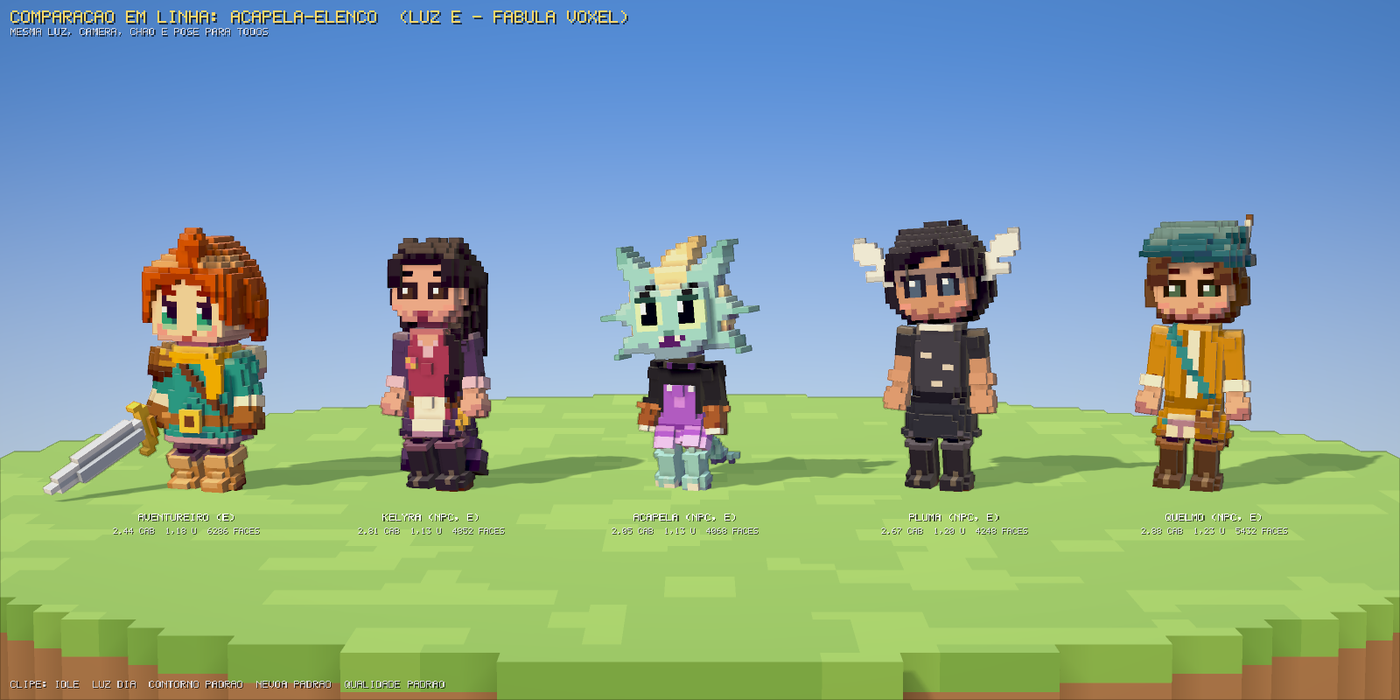
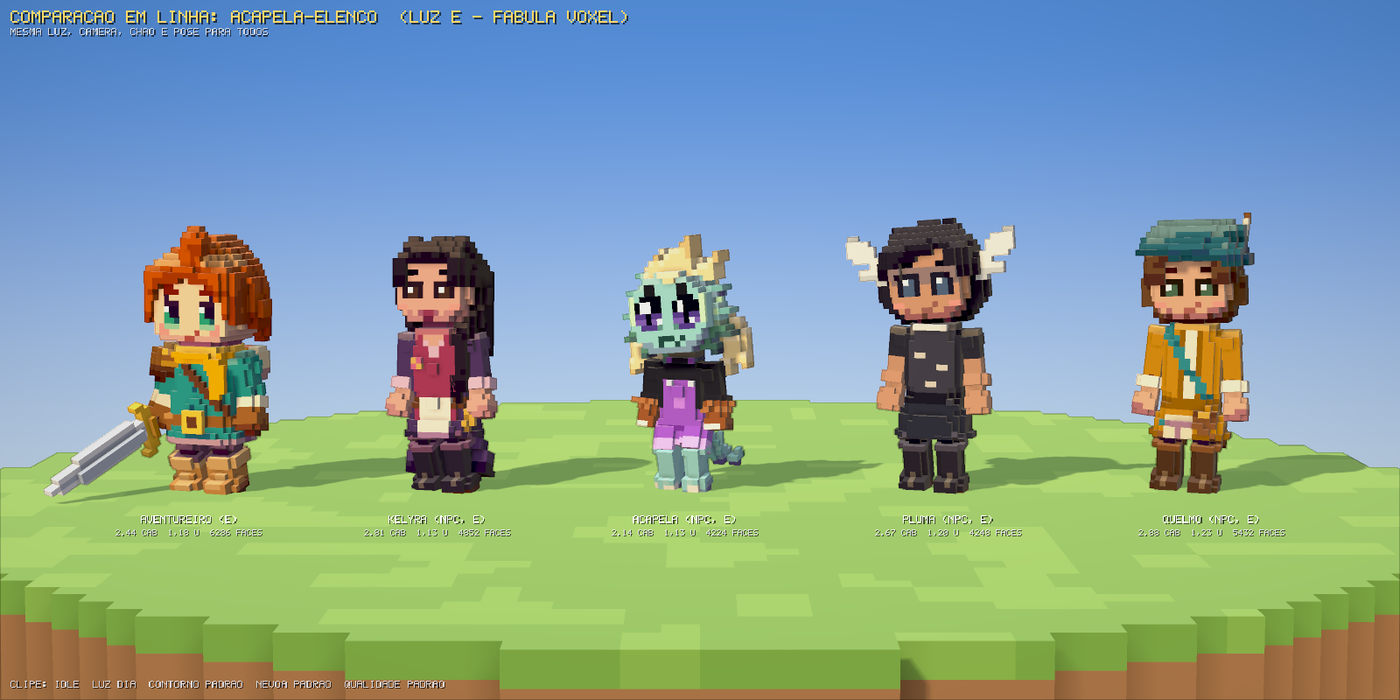
docs: atualiza as evidências do Acapela para a segunda rodada

Changed region(s): [[0.0, 0.3, 1.0, 0.78], [0.0, 0.81, 1.0, 1.0]]

diff --git a/docs/art/conteudo/acapela/README.md b/docs/art/conteudo/acapela/README.md
@@ -1,9 +1,17 @@
-# Acapela — rodada 1 (candidato, aguardando avaliação do proprietário)
+# Acapela — rodada 2 (candidato, aguardando avaliação do proprietário)
 
 Capturas do renderer real, reduzidas para o PR. **Não são referências canônicas.** As originais, a silhueta, o fim de
-tarde e os vídeos (aceno, andar, giro) ficam no pacote local `output/visual-review/acapela/rodada-01/`, fora do git.
-Fonte: `tools/npc_acapela_e.py`; testes: `AcapelaTest`.
+tarde e os vídeos (aceno, andar, correr, giro) ficam no pacote local `output/visual-review/acapela/rodada-02/`, fora do
+git. Fonte: `tools/npc_acapela_e.py`; testes: `AcapelaTest`.
 
 - `vistas.png` — frente, 3/4, perfis, costas, 3/4 costas, silhueta e fim de tarde.
-- `expressoes.png` — neutro, joy, determined e surprise.
+- `expressoes.png` — neutro (":3"), joy, determined e surprise.
 - `elenco.png` — ao lado do herói, da Kelyra, da Pluma e do Quelmo (mesma luz e câmera).
+- `rodada1-x-rodada2.png` — a primeira rodada em cima, a segunda embaixo (frente, costas, rosto, perfil).
+
+Rodada 2:
+- **Cabelo:** creme espetado, com dois tufos caindo atrás até os ombros.
+- **Cabeça:** redonda, com tufinhos pontudos e colar de pelo verde-escuro.
+- **Olhos:** íris escura com fenda e brilho, asinha verde-clara do lado de fora.
+- **Boca:** ":3" no dia a dia; as presas aparecem quando ri.
+- **Rabo e mãos:** rabo peludo; patas de pelo com garras.
